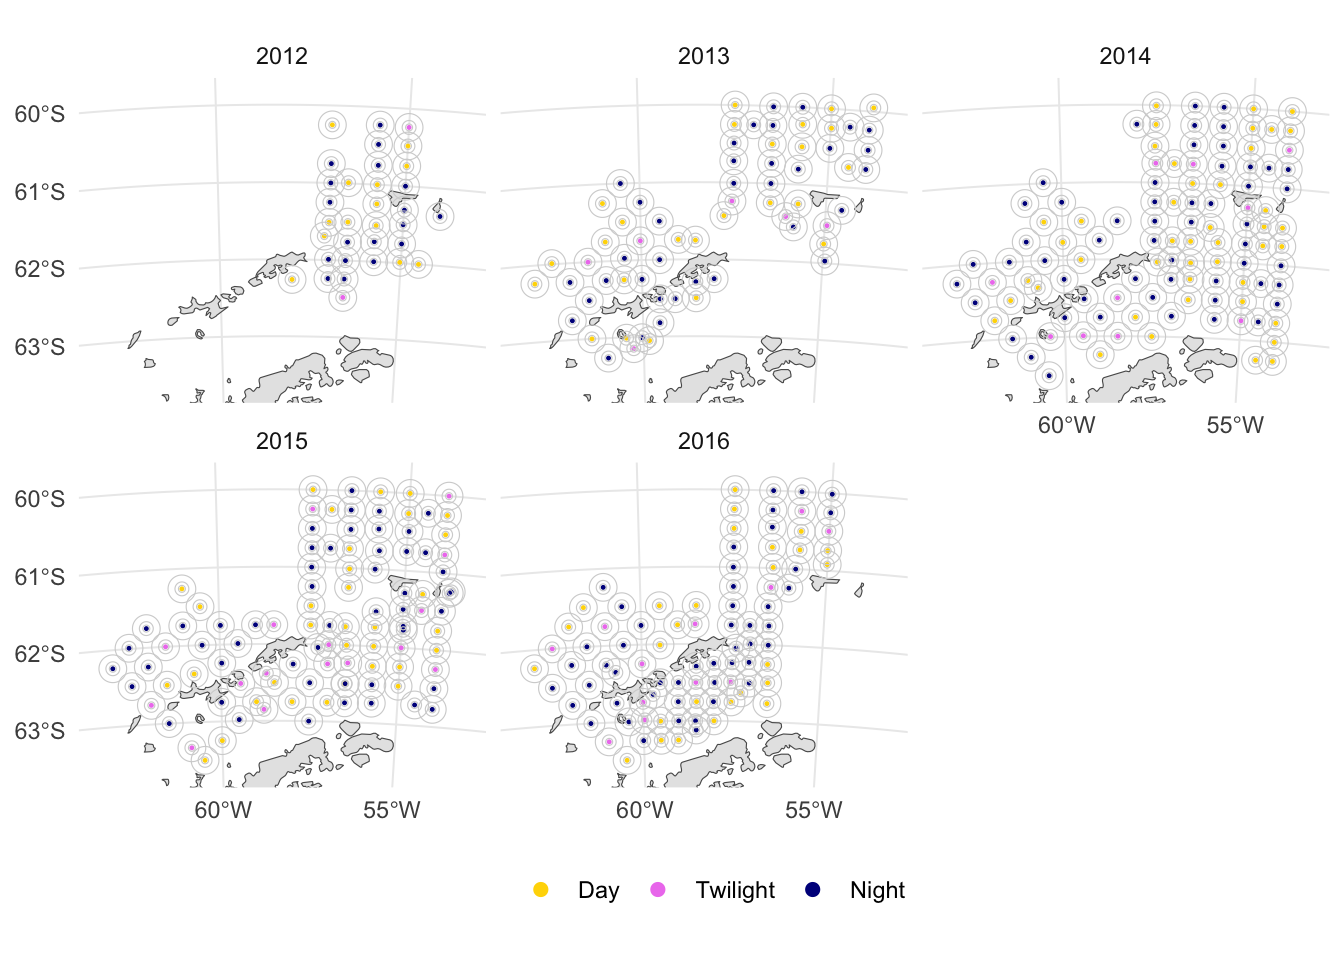
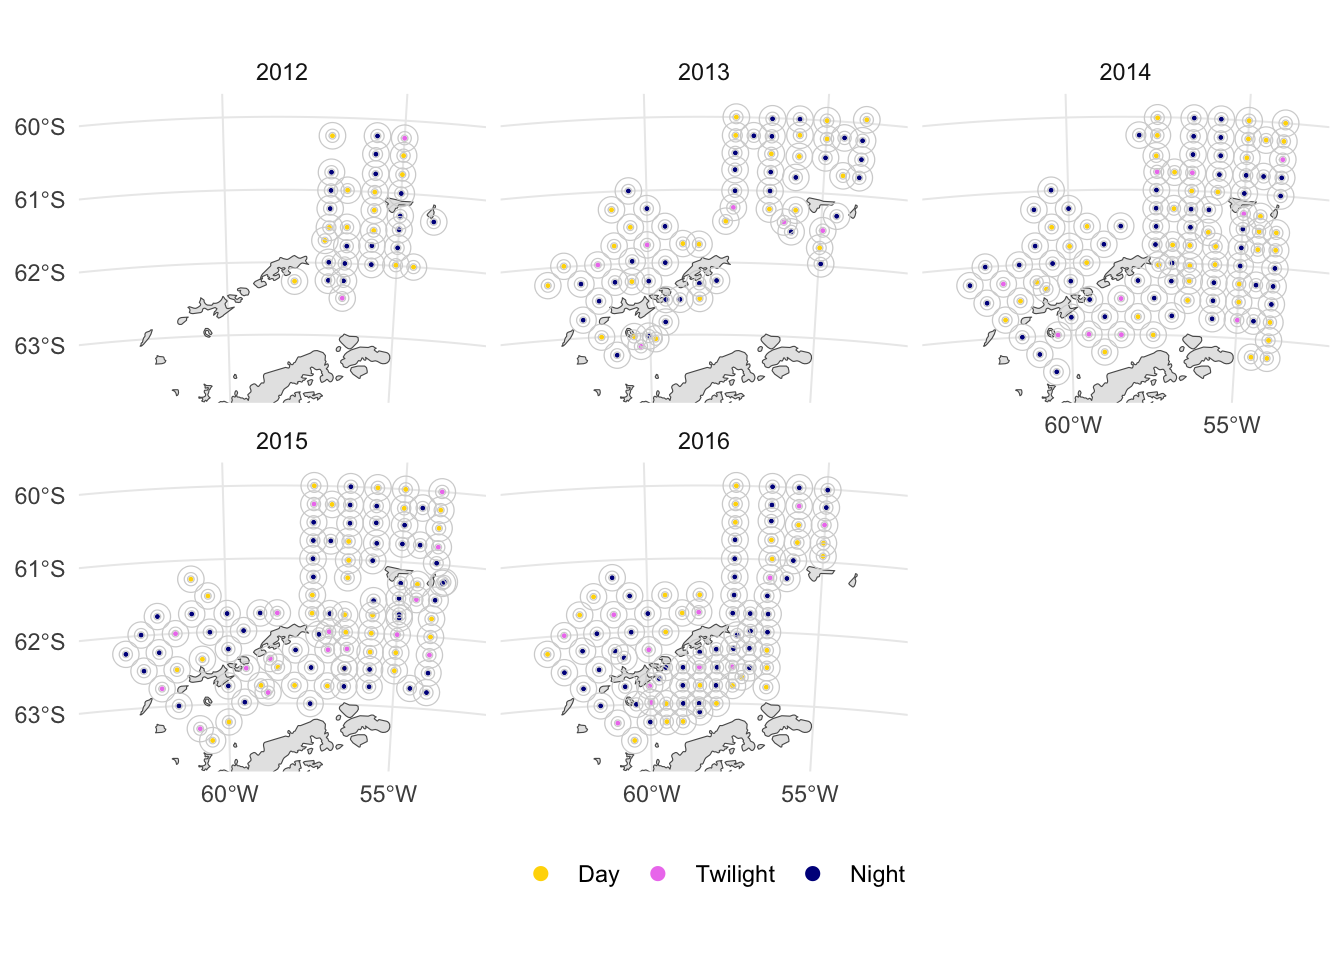
Add zoop/physics maps

diff --git a/docs/02_stations.html b/docs/02_stations.html
@@ -129,34 +129,98 @@ code span.wa { color: #60a0b0; font-weight: bold; font-style: italic; } /* Warni
 <div class="cell">
 <details>
 <summary>Code</summary>
-<div class="sourceCode cell-code" id="cb1"><pre class="sourceCode r code-with-copy"><code class="sourceCode r"><span id="cb1-1"><a href="#cb1-1" aria-hidden="true" tabindex="-1"></a>zoop_sf <span class="ot">&lt;-</span> <span class="fu">latlon_to_sf</span>(zoop, </span>
-<span id="cb1-2"><a href="#cb1-2" aria-hidden="true" tabindex="-1"></a>                        <span class="at">coords =</span> <span class="fu">c</span>(<span class="st">"dec.longitude"</span>, <span class="st">"dec.latitude"</span>)) <span class="sc">%&gt;%</span> </span>
-<span id="cb1-3"><a href="#cb1-3" aria-hidden="true" tabindex="-1"></a>  sf<span class="sc">::</span><span class="fu">st_transform</span>(<span class="fu">ant_proj</span>())</span>
+<div class="sourceCode cell-code" id="cb1"><pre class="sourceCode r code-with-copy"><code class="sourceCode r"><span id="cb1-1"><a href="#cb1-1" aria-hidden="true" tabindex="-1"></a>zoop_buffers_10k <span class="ot">&lt;-</span> sf<span class="sc">::</span><span class="fu">st_buffer</span>(zoop_sf, <span class="fl">5e3</span>)</span>
+<span id="cb1-2"><a href="#cb1-2" aria-hidden="true" tabindex="-1"></a>zoop_buffers_15k <span class="ot">&lt;-</span> sf<span class="sc">::</span><span class="fu">st_buffer</span>(zoop_sf, <span class="fl">10e3</span>)</span>
+<span id="cb1-3"><a href="#cb1-3" aria-hidden="true" tabindex="-1"></a>zoop_buffers_20k <span class="ot">&lt;-</span> sf<span class="sc">::</span><span class="fu">st_buffer</span>(zoop_sf, <span class="fl">20e3</span>)</span>
 <span id="cb1-4"><a href="#cb1-4" aria-hidden="true" tabindex="-1"></a></span>
-<span id="cb1-5"><a href="#cb1-5" aria-hidden="true" tabindex="-1"></a>zoop_buffers_10k <span class="ot">&lt;-</span> sf<span class="sc">::</span><span class="fu">st_buffer</span>(zoop_sf, <span class="fl">5e3</span>)</span>
-<span id="cb1-6"><a href="#cb1-6" aria-hidden="true" tabindex="-1"></a>zoop_buffers_15k <span class="ot">&lt;-</span> sf<span class="sc">::</span><span class="fu">st_buffer</span>(zoop_sf, <span class="fl">10e3</span>)</span>
-<span id="cb1-7"><a href="#cb1-7" aria-hidden="true" tabindex="-1"></a>zoop_buffers_20k <span class="ot">&lt;-</span> sf<span class="sc">::</span><span class="fu">st_buffer</span>(zoop_sf, <span class="fl">20e3</span>)</span>
+<span id="cb1-5"><a href="#cb1-5" aria-hidden="true" tabindex="-1"></a>map_lim <span class="ot">&lt;-</span> sf<span class="sc">::</span><span class="fu">st_bbox</span>(zoop_sf) <span class="sc">%&gt;%</span> </span>
+<span id="cb1-6"><a href="#cb1-6" aria-hidden="true" tabindex="-1"></a>  <span class="fu">project_bbox</span>() <span class="sc">%&gt;%</span> </span>
+<span id="cb1-7"><a href="#cb1-7" aria-hidden="true" tabindex="-1"></a>  <span class="fu">expand_bbox</span>(<span class="at">factor =</span> <span class="fl">1.2</span>)</span>
 <span id="cb1-8"><a href="#cb1-8" aria-hidden="true" tabindex="-1"></a></span>
-<span id="cb1-9"><a href="#cb1-9" aria-hidden="true" tabindex="-1"></a>map_lim <span class="ot">&lt;-</span> sf<span class="sc">::</span><span class="fu">st_bbox</span>(zoop_sf) <span class="sc">%&gt;%</span> </span>
-<span id="cb1-10"><a href="#cb1-10" aria-hidden="true" tabindex="-1"></a>  <span class="fu">project_bbox</span>() <span class="sc">%&gt;%</span> </span>
-<span id="cb1-11"><a href="#cb1-11" aria-hidden="true" tabindex="-1"></a>  <span class="fu">expand_bbox</span>(<span class="at">factor =</span> <span class="fl">1.2</span>)</span>
-<span id="cb1-12"><a href="#cb1-12" aria-hidden="true" tabindex="-1"></a></span>
-<span id="cb1-13"><a href="#cb1-13" aria-hidden="true" tabindex="-1"></a><span class="fu">ant_basemap</span>(map_lim) <span class="sc">+</span></span>
-<span id="cb1-14"><a href="#cb1-14" aria-hidden="true" tabindex="-1"></a>  <span class="fu">geom_sf</span>(<span class="fu">aes</span>(<span class="at">color =</span> time.of.day), zoop_sf, <span class="at">size =</span> <span class="fl">0.2</span>) <span class="sc">+</span></span>
-<span id="cb1-15"><a href="#cb1-15" aria-hidden="true" tabindex="-1"></a>  <span class="fu">geom_sf</span>(<span class="at">data =</span> zoop_buffers_10k, <span class="at">color =</span> <span class="st">"lightgrey"</span>, <span class="at">fill =</span> <span class="cn">NA</span>) <span class="sc">+</span></span>
-<span id="cb1-16"><a href="#cb1-16" aria-hidden="true" tabindex="-1"></a>  <span class="fu">geom_sf</span>(<span class="at">data =</span> zoop_buffers_15k, <span class="at">color =</span> <span class="st">"lightgrey"</span>, <span class="at">fill =</span> <span class="cn">NA</span>) <span class="sc">+</span></span>
-<span id="cb1-17"><a href="#cb1-17" aria-hidden="true" tabindex="-1"></a>  <span class="fu">geom_sf</span>(<span class="at">data =</span> zoop_buffers_20k, <span class="at">color =</span> <span class="st">"lightgrey"</span>, <span class="at">fill =</span> <span class="cn">NA</span>) <span class="sc">+</span></span>
-<span id="cb1-18"><a href="#cb1-18" aria-hidden="true" tabindex="-1"></a>  <span class="fu">facet_wrap</span>(<span class="sc">~</span> Year) <span class="sc">+</span></span>
-<span id="cb1-19"><a href="#cb1-19" aria-hidden="true" tabindex="-1"></a>  <span class="fu">scale_x_continuous</span>(<span class="at">breaks =</span> <span class="fu">c</span>(<span class="sc">-</span><span class="dv">60</span>, <span class="sc">-</span><span class="dv">55</span>)) <span class="sc">+</span></span>
-<span id="cb1-20"><a href="#cb1-20" aria-hidden="true" tabindex="-1"></a>  <span class="fu">scale_y_continuous</span>(<span class="at">breaks =</span> <span class="fu">c</span>(<span class="sc">-</span><span class="dv">63</span>, <span class="sc">-</span><span class="dv">62</span>, <span class="sc">-</span><span class="dv">61</span>, <span class="sc">-</span><span class="dv">60</span>)) <span class="sc">+</span></span>
-<span id="cb1-21"><a href="#cb1-21" aria-hidden="true" tabindex="-1"></a>  <span class="fu">scale_color_manual</span>(<span class="at">values =</span> <span class="fu">tod_pal</span>()) <span class="sc">+</span></span>
-<span id="cb1-22"><a href="#cb1-22" aria-hidden="true" tabindex="-1"></a>  <span class="fu">guides</span>(<span class="at">color =</span> <span class="fu">guide_legend</span>(<span class="at">override.aes =</span> <span class="fu">list</span>(<span class="at">size =</span> <span class="dv">2</span>))) <span class="sc">+</span></span>
-<span id="cb1-23"><a href="#cb1-23" aria-hidden="true" tabindex="-1"></a>  <span class="fu">coord_ant</span>(map_lim) <span class="sc">+</span></span>
-<span id="cb1-24"><a href="#cb1-24" aria-hidden="true" tabindex="-1"></a>  <span class="fu">theme</span>(<span class="at">legend.position =</span> <span class="st">"bottom"</span>,</span>
-<span id="cb1-25"><a href="#cb1-25" aria-hidden="true" tabindex="-1"></a>        <span class="at">legend.title =</span> <span class="fu">element_blank</span>())</span></code><button title="Copy to Clipboard" class="code-copy-button"><i class="bi"></i></button></pre></div>
+<span id="cb1-9"><a href="#cb1-9" aria-hidden="true" tabindex="-1"></a><span class="fu">ant_basemap</span>(map_lim) <span class="sc">+</span></span>
+<span id="cb1-10"><a href="#cb1-10" aria-hidden="true" tabindex="-1"></a>  <span class="fu">geom_sf</span>(<span class="fu">aes</span>(<span class="at">color =</span> time.of.day), zoop_sf, <span class="at">size =</span> <span class="fl">0.2</span>) <span class="sc">+</span></span>
+<span id="cb1-11"><a href="#cb1-11" aria-hidden="true" tabindex="-1"></a>  <span class="fu">geom_sf</span>(<span class="at">data =</span> zoop_buffers_10k, <span class="at">color =</span> <span class="st">"lightgrey"</span>, <span class="at">fill =</span> <span class="cn">NA</span>) <span class="sc">+</span></span>
+<span id="cb1-12"><a href="#cb1-12" aria-hidden="true" tabindex="-1"></a>  <span class="fu">geom_sf</span>(<span class="at">data =</span> zoop_buffers_15k, <span class="at">color =</span> <span class="st">"lightgrey"</span>, <span class="at">fill =</span> <span class="cn">NA</span>) <span class="sc">+</span></span>
+<span id="cb1-13"><a href="#cb1-13" aria-hidden="true" tabindex="-1"></a>  <span class="fu">geom_sf</span>(<span class="at">data =</span> zoop_buffers_20k, <span class="at">color =</span> <span class="st">"lightgrey"</span>, <span class="at">fill =</span> <span class="cn">NA</span>) <span class="sc">+</span></span>
+<span id="cb1-14"><a href="#cb1-14" aria-hidden="true" tabindex="-1"></a>  <span class="fu">facet_wrap</span>(<span class="sc">~</span> Year) <span class="sc">+</span></span>
+<span id="cb1-15"><a href="#cb1-15" aria-hidden="true" tabindex="-1"></a>  <span class="fu">scale_x_continuous</span>(<span class="at">breaks =</span> <span class="fu">c</span>(<span class="sc">-</span><span class="dv">60</span>, <span class="sc">-</span><span class="dv">55</span>)) <span class="sc">+</span></span>
+<span id="cb1-16"><a href="#cb1-16" aria-hidden="true" tabindex="-1"></a>  <span class="fu">scale_y_continuous</span>(<span class="at">breaks =</span> <span class="fu">c</span>(<span class="sc">-</span><span class="dv">63</span>, <span class="sc">-</span><span class="dv">62</span>, <span class="sc">-</span><span class="dv">61</span>, <span class="sc">-</span><span class="dv">60</span>)) <span class="sc">+</span></span>
+<span id="cb1-17"><a href="#cb1-17" aria-hidden="true" tabindex="-1"></a>  <span class="fu">scale_color_manual</span>(<span class="at">values =</span> <span class="fu">tod_pal</span>()) <span class="sc">+</span></span>
+<span id="cb1-18"><a href="#cb1-18" aria-hidden="true" tabindex="-1"></a>  <span class="fu">guides</span>(<span class="at">color =</span> <span class="fu">guide_legend</span>(<span class="at">override.aes =</span> <span class="fu">list</span>(<span class="at">size =</span> <span class="dv">2</span>))) <span class="sc">+</span></span>
+<span id="cb1-19"><a href="#cb1-19" aria-hidden="true" tabindex="-1"></a>  <span class="fu">coord_ant</span>(map_lim) <span class="sc">+</span></span>
+<span id="cb1-20"><a href="#cb1-20" aria-hidden="true" tabindex="-1"></a>  <span class="fu">theme</span>(<span class="at">legend.position =</span> <span class="st">"bottom"</span>,</span>
+<span id="cb1-21"><a href="#cb1-21" aria-hidden="true" tabindex="-1"></a>        <span class="at">legend.title =</span> <span class="fu">element_blank</span>())</span></code><button title="Copy to Clipboard" class="code-copy-button"><i class="bi"></i></button></pre></div>
 </details>
 <div class="cell-output-display">
 <p><img src="02_stations_files/figure-html/station_maps-1.png" class="img-fluid" width="672"></p>
+</div>
+</div>
+</section>
+<section id="zooplankton-communityphysics-maps" class="level2">
+<h2 class="anchored" data-anchor-id="zooplankton-communityphysics-maps">Zooplankton community/physics maps</h2>
+<div class="cell">
+<details>
+<summary>Code</summary>
+<div class="sourceCode cell-code" id="cb2"><pre class="sourceCode r code-with-copy"><code class="sourceCode r"><span id="cb2-1"><a href="#cb2-1" aria-hidden="true" tabindex="-1"></a>zoop_physics_vars <span class="ot">&lt;-</span> <span class="fu">c</span>(<span class="st">"Winter Cluster factor"</span>,</span>
+<span id="cb2-2"><a href="#cb2-2" aria-hidden="true" tabindex="-1"></a>                       <span class="st">"Net.ice.type"</span>,</span>
+<span id="cb2-3"><a href="#cb2-3" aria-hidden="true" tabindex="-1"></a>                       <span class="st">"Net.ice.percent"</span>,</span>
+<span id="cb2-4"><a href="#cb2-4" aria-hidden="true" tabindex="-1"></a>                       <span class="st">"zuml_m"</span>,</span>
+<span id="cb2-5"><a href="#cb2-5" aria-hidden="true" tabindex="-1"></a>                       <span class="st">"avg.Dens.Diff"</span>,</span>
+<span id="cb2-6"><a href="#cb2-6" aria-hidden="true" tabindex="-1"></a>                       <span class="st">"avg.salinity"</span>,</span>
+<span id="cb2-7"><a href="#cb2-7" aria-hidden="true" tabindex="-1"></a>                       <span class="st">"avg.temp"</span>,</span>
+<span id="cb2-8"><a href="#cb2-8" aria-hidden="true" tabindex="-1"></a>                       <span class="st">"Water.Zone"</span>,</span>
+<span id="cb2-9"><a href="#cb2-9" aria-hidden="true" tabindex="-1"></a>                       <span class="st">"Integ.chla.zuml"</span>,</span>
+<span id="cb2-10"><a href="#cb2-10" aria-hidden="true" tabindex="-1"></a>                       <span class="st">"Integ.phae.zuml"</span>,</span>
+<span id="cb2-11"><a href="#cb2-11" aria-hidden="true" tabindex="-1"></a>                       <span class="st">"Integ.chla.100m"</span>,</span>
+<span id="cb2-12"><a href="#cb2-12" aria-hidden="true" tabindex="-1"></a>                       <span class="st">"Integ.phae.100m"</span>)</span>
+<span id="cb2-13"><a href="#cb2-13" aria-hidden="true" tabindex="-1"></a></span>
+<span id="cb2-14"><a href="#cb2-14" aria-hidden="true" tabindex="-1"></a>station_map <span class="ot">&lt;-</span> <span class="cf">function</span>(var) {</span>
+<span id="cb2-15"><a href="#cb2-15" aria-hidden="true" tabindex="-1"></a>  <span class="fu">ant_basemap</span>(map_lim) <span class="sc">+</span></span>
+<span id="cb2-16"><a href="#cb2-16" aria-hidden="true" tabindex="-1"></a>    <span class="fu">geom_sf</span>(<span class="fu">aes</span>(<span class="at">color =</span> .data[[var]]), zoop_sf, <span class="at">size =</span> <span class="dv">2</span>, <span class="at">shape =</span> <span class="dv">15</span>) <span class="sc">+</span></span>
+<span id="cb2-17"><a href="#cb2-17" aria-hidden="true" tabindex="-1"></a>    <span class="fu">facet_wrap</span>(<span class="sc">~</span> Year) <span class="sc">+</span></span>
+<span id="cb2-18"><a href="#cb2-18" aria-hidden="true" tabindex="-1"></a>    <span class="fu">scale_x_continuous</span>(<span class="at">breaks =</span> <span class="fu">c</span>(<span class="sc">-</span><span class="dv">60</span>, <span class="sc">-</span><span class="dv">55</span>)) <span class="sc">+</span></span>
+<span id="cb2-19"><a href="#cb2-19" aria-hidden="true" tabindex="-1"></a>    <span class="fu">scale_y_continuous</span>(<span class="at">breaks =</span> <span class="fu">c</span>(<span class="sc">-</span><span class="dv">63</span>, <span class="sc">-</span><span class="dv">62</span>, <span class="sc">-</span><span class="dv">61</span>, <span class="sc">-</span><span class="dv">60</span>)) <span class="sc">+</span></span>
+<span id="cb2-20"><a href="#cb2-20" aria-hidden="true" tabindex="-1"></a>    <span class="fu">coord_ant</span>(map_lim) <span class="sc">+</span></span>
+<span id="cb2-21"><a href="#cb2-21" aria-hidden="true" tabindex="-1"></a>    <span class="fu">theme</span>(<span class="at">legend.position =</span> <span class="st">"bottom"</span>)</span>
+<span id="cb2-22"><a href="#cb2-22" aria-hidden="true" tabindex="-1"></a>}</span>
+<span id="cb2-23"><a href="#cb2-23" aria-hidden="true" tabindex="-1"></a></span>
+<span id="cb2-24"><a href="#cb2-24" aria-hidden="true" tabindex="-1"></a><span class="fu">walk</span>(zoop_physics_vars, <span class="fu">compose</span>(print, station_map))</span></code><button title="Copy to Clipboard" class="code-copy-button"><i class="bi"></i></button></pre></div>
+</details>
+<div class="cell-output-display">
+<p><img src="02_stations_files/figure-html/zoop_physics_maps-1.png" class="img-fluid" width="672"></p>
+</div>
+<div class="cell-output-display">
+<p><img src="02_stations_files/figure-html/zoop_physics_maps-2.png" class="img-fluid" width="672"></p>
+</div>
+<div class="cell-output-display">
+<p><img src="02_stations_files/figure-html/zoop_physics_maps-3.png" class="img-fluid" width="672"></p>
+</div>
+<div class="cell-output-display">
+<p><img src="02_stations_files/figure-html/zoop_physics_maps-4.png" class="img-fluid" width="672"></p>
+</div>
+<div class="cell-output-display">
+<p><img src="02_stations_files/figure-html/zoop_physics_maps-5.png" class="img-fluid" width="672"></p>
+</div>
+<div class="cell-output-display">
+<p><img src="02_stations_files/figure-html/zoop_physics_maps-6.png" class="img-fluid" width="672"></p>
+</div>
+<div class="cell-output-display">
+<p><img src="02_stations_files/figure-html/zoop_physics_maps-7.png" class="img-fluid" width="672"></p>
+</div>
+<div class="cell-output-display">
+<p><img src="02_stations_files/figure-html/zoop_physics_maps-8.png" class="img-fluid" width="672"></p>
+</div>
+<div class="cell-output-display">
+<p><img src="02_stations_files/figure-html/zoop_physics_maps-9.png" class="img-fluid" width="672"></p>
+</div>
+<div class="cell-output-display">
+<p><img src="02_stations_files/figure-html/zoop_physics_maps-10.png" class="img-fluid" width="672"></p>
+</div>
+<div class="cell-output-display">
+<p><img src="02_stations_files/figure-html/zoop_physics_maps-11.png" class="img-fluid" width="672"></p>
+</div>
+<div class="cell-output-display">
+<p><img src="02_stations_files/figure-html/zoop_physics_maps-12.png" class="img-fluid" width="672"></p>
 </div>
 </div>
 </section>
